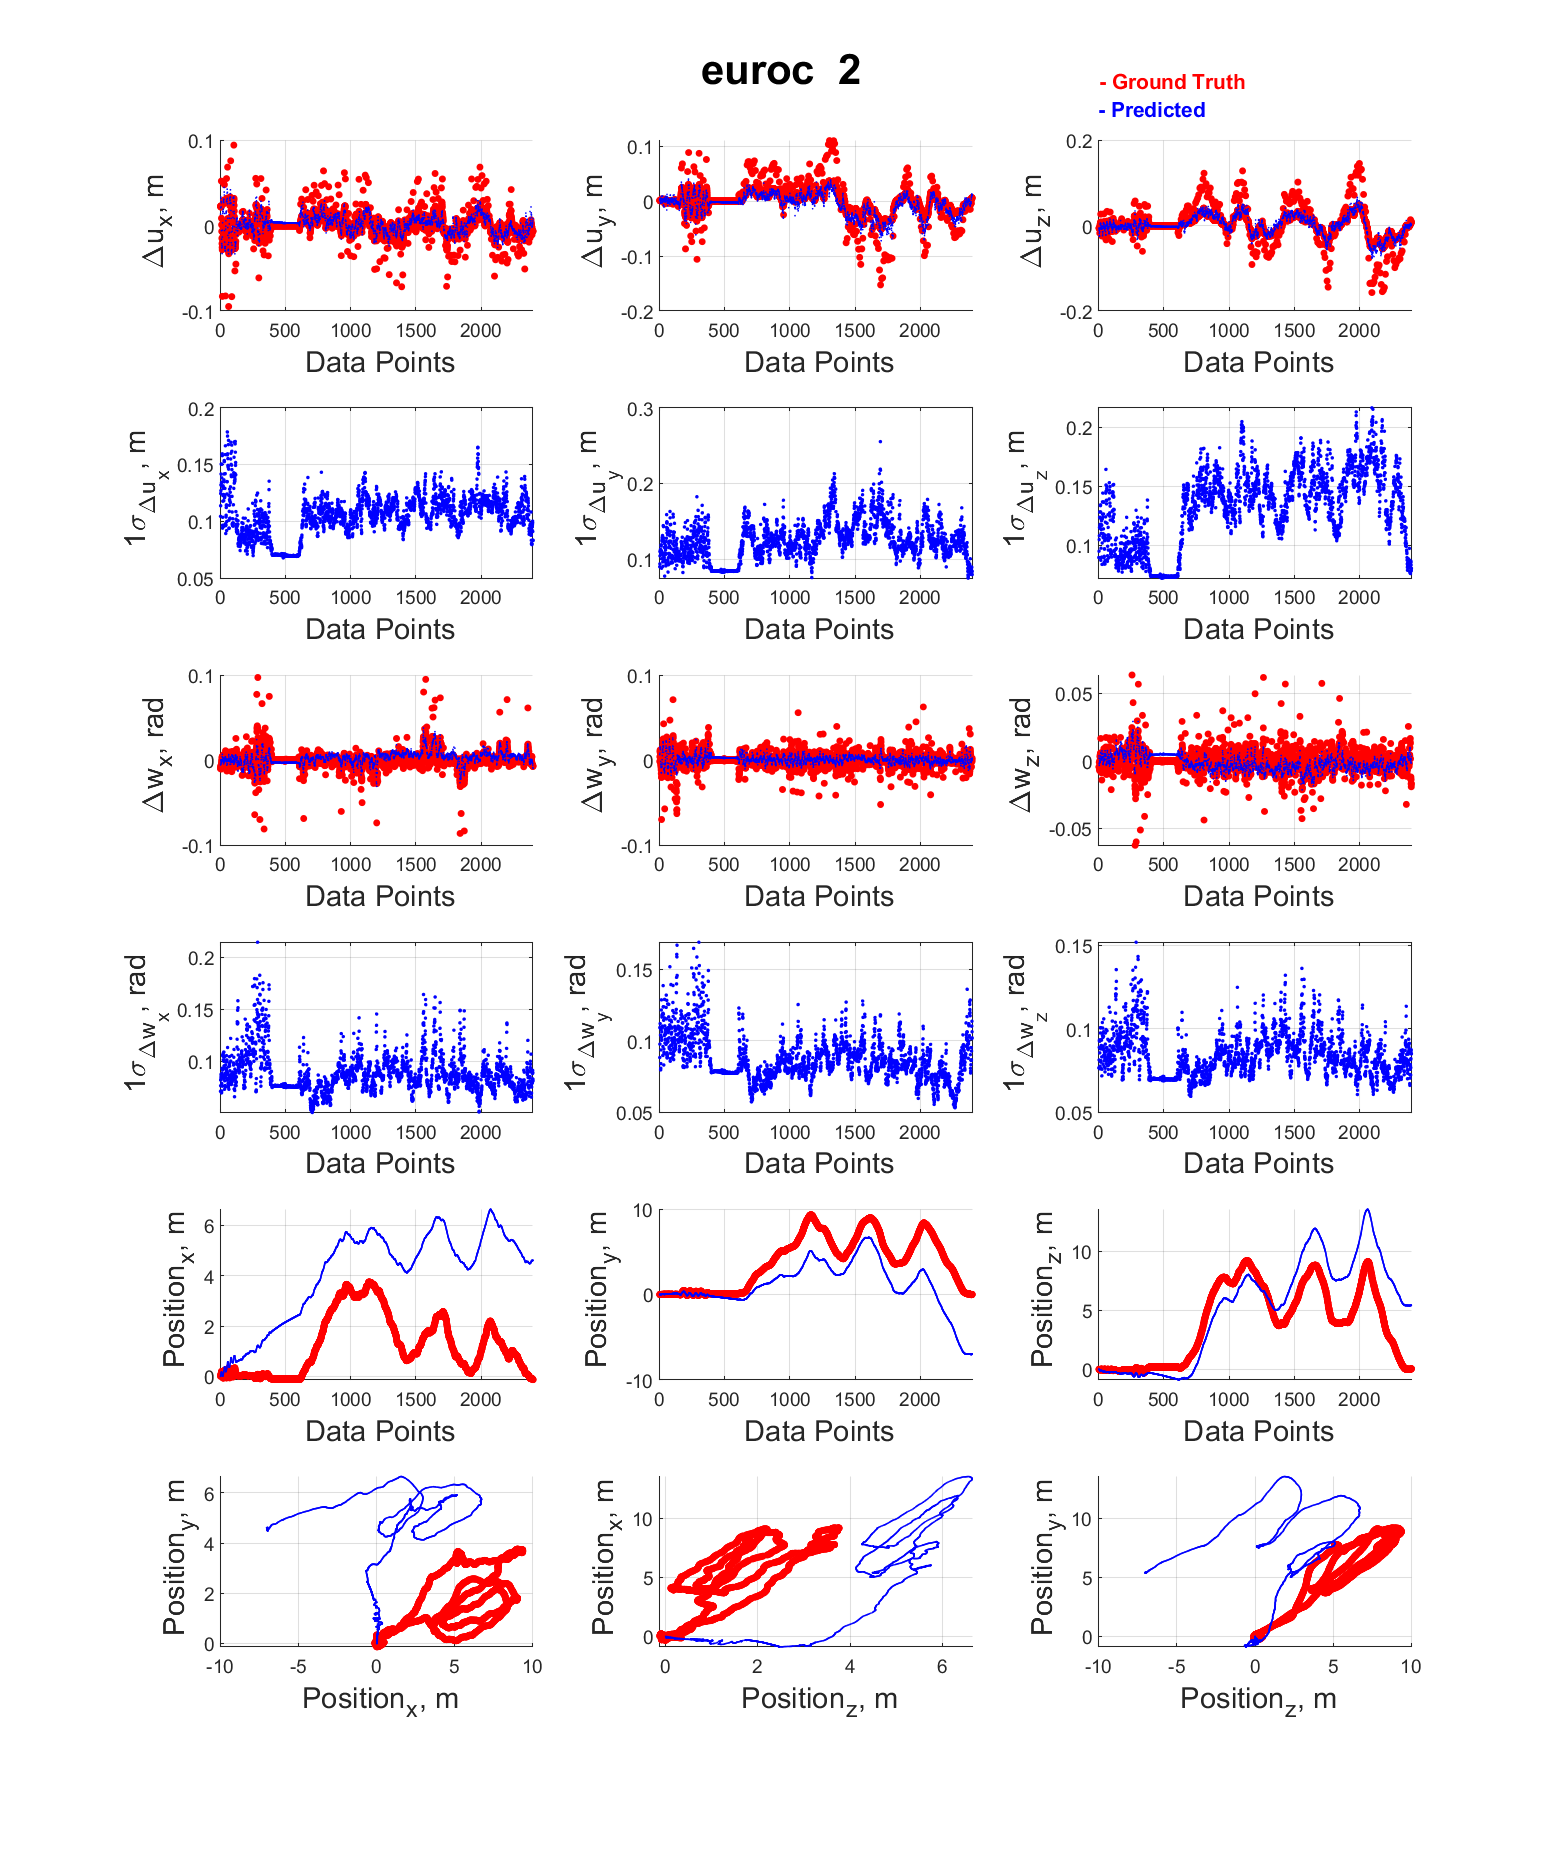
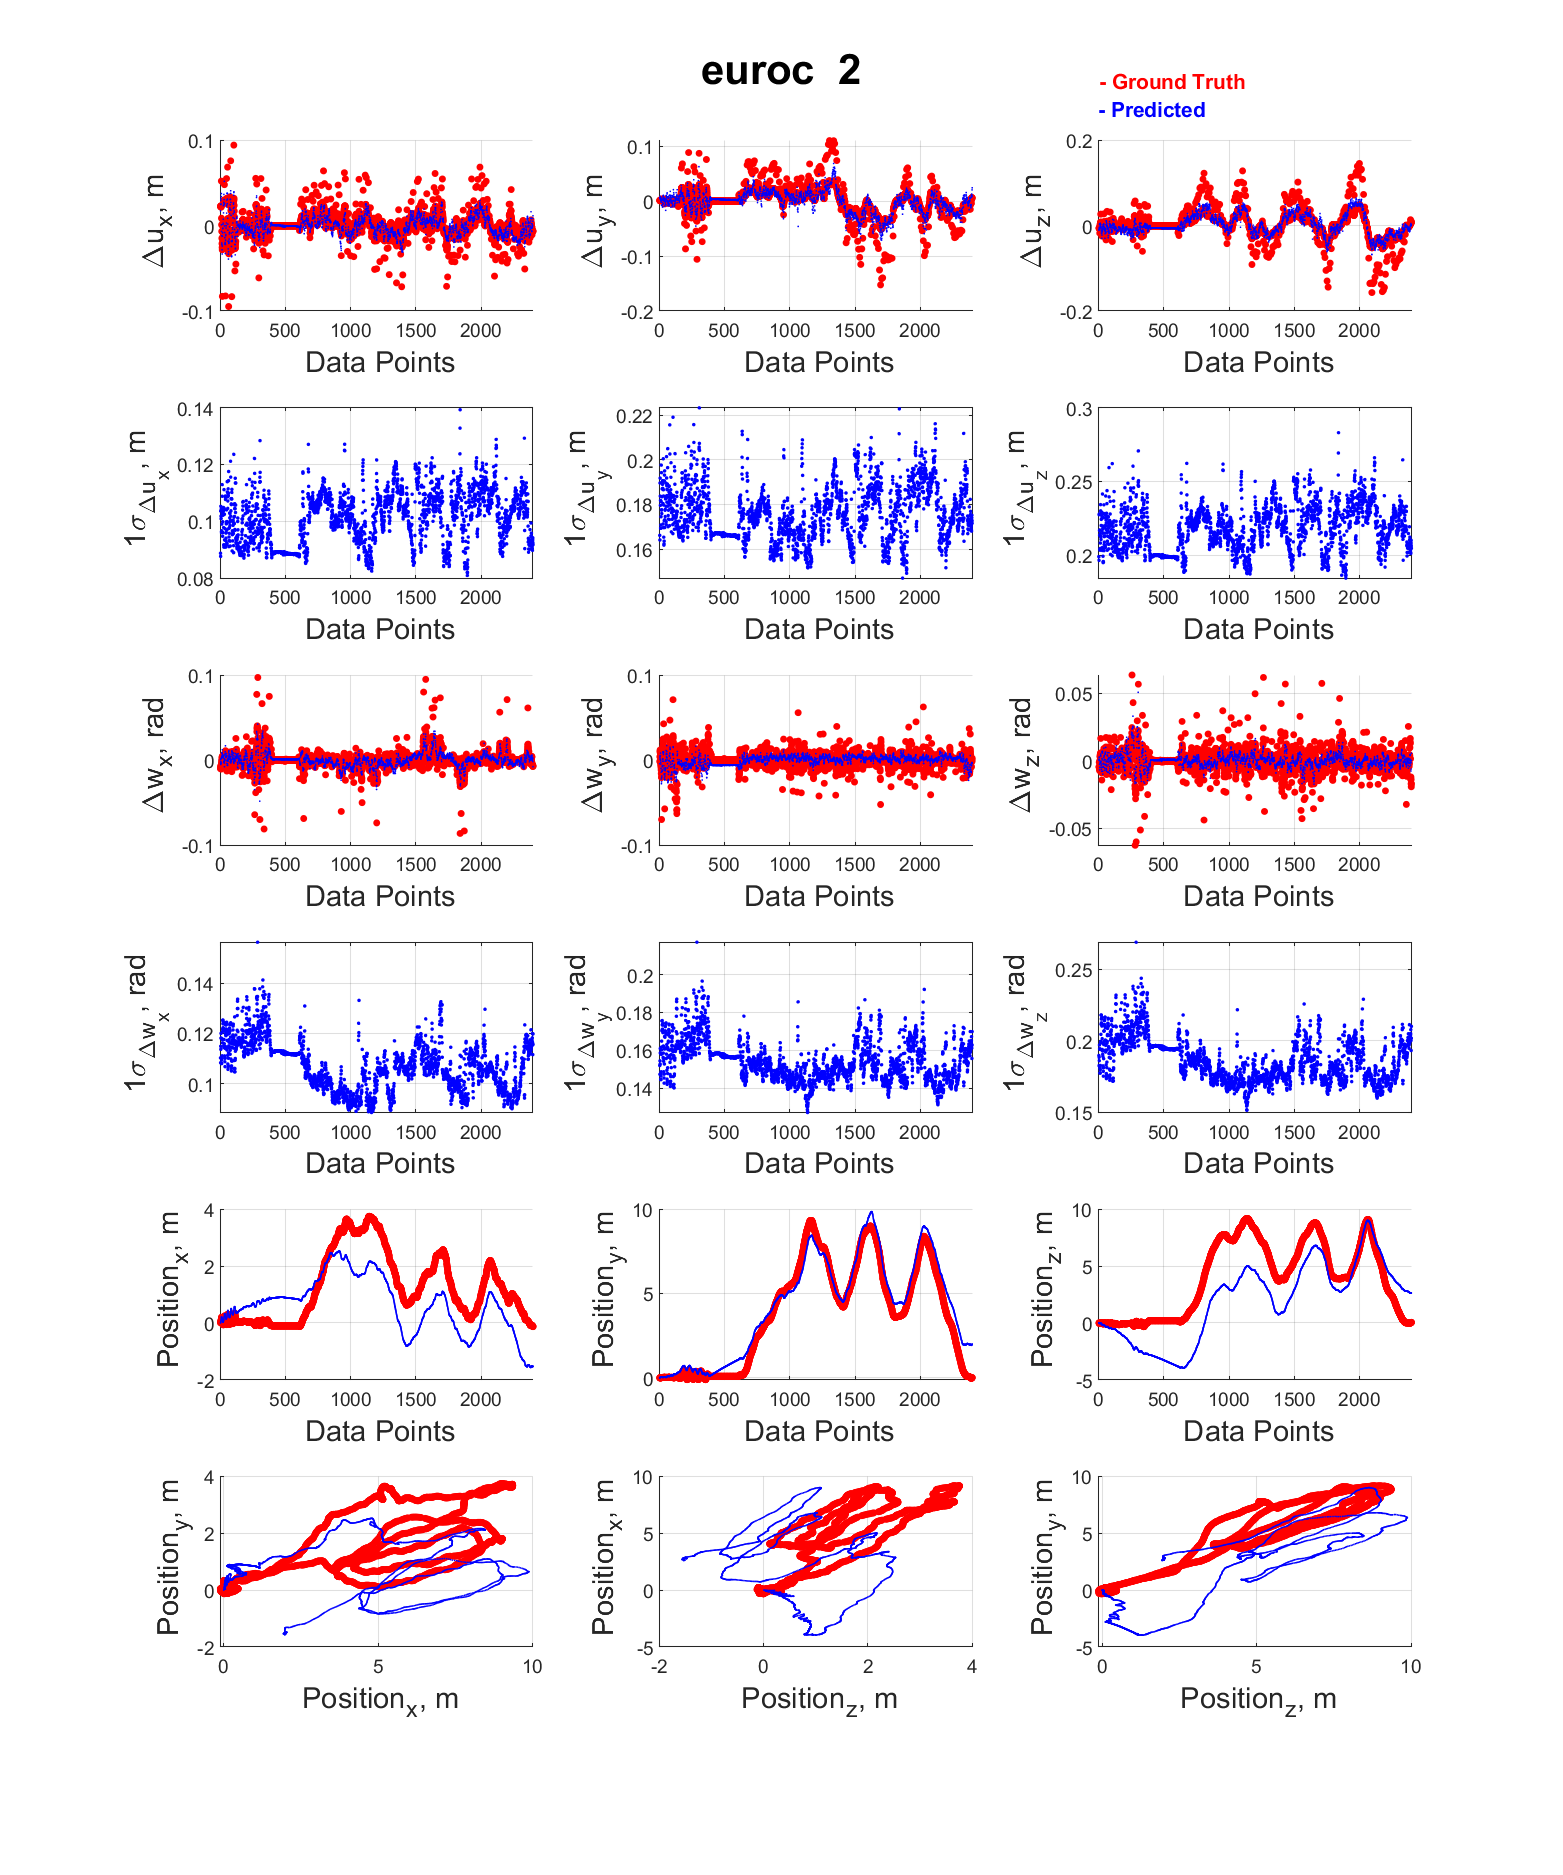
afasfasfad

diff --git a/Results/show_cnn.m b/Results/show_cnn.m
@@ -1,7 +1,7 @@
 clc, clear, close all
-dsName = 'airsim';
-subType = 'mr';
-seq = 2;
+dsName = 'euroc';
+subType = '';
+seq = 4;
 
 %% Get Ground Truth Info.
 gtPath = getGTPath(dsName,subType, seq);
